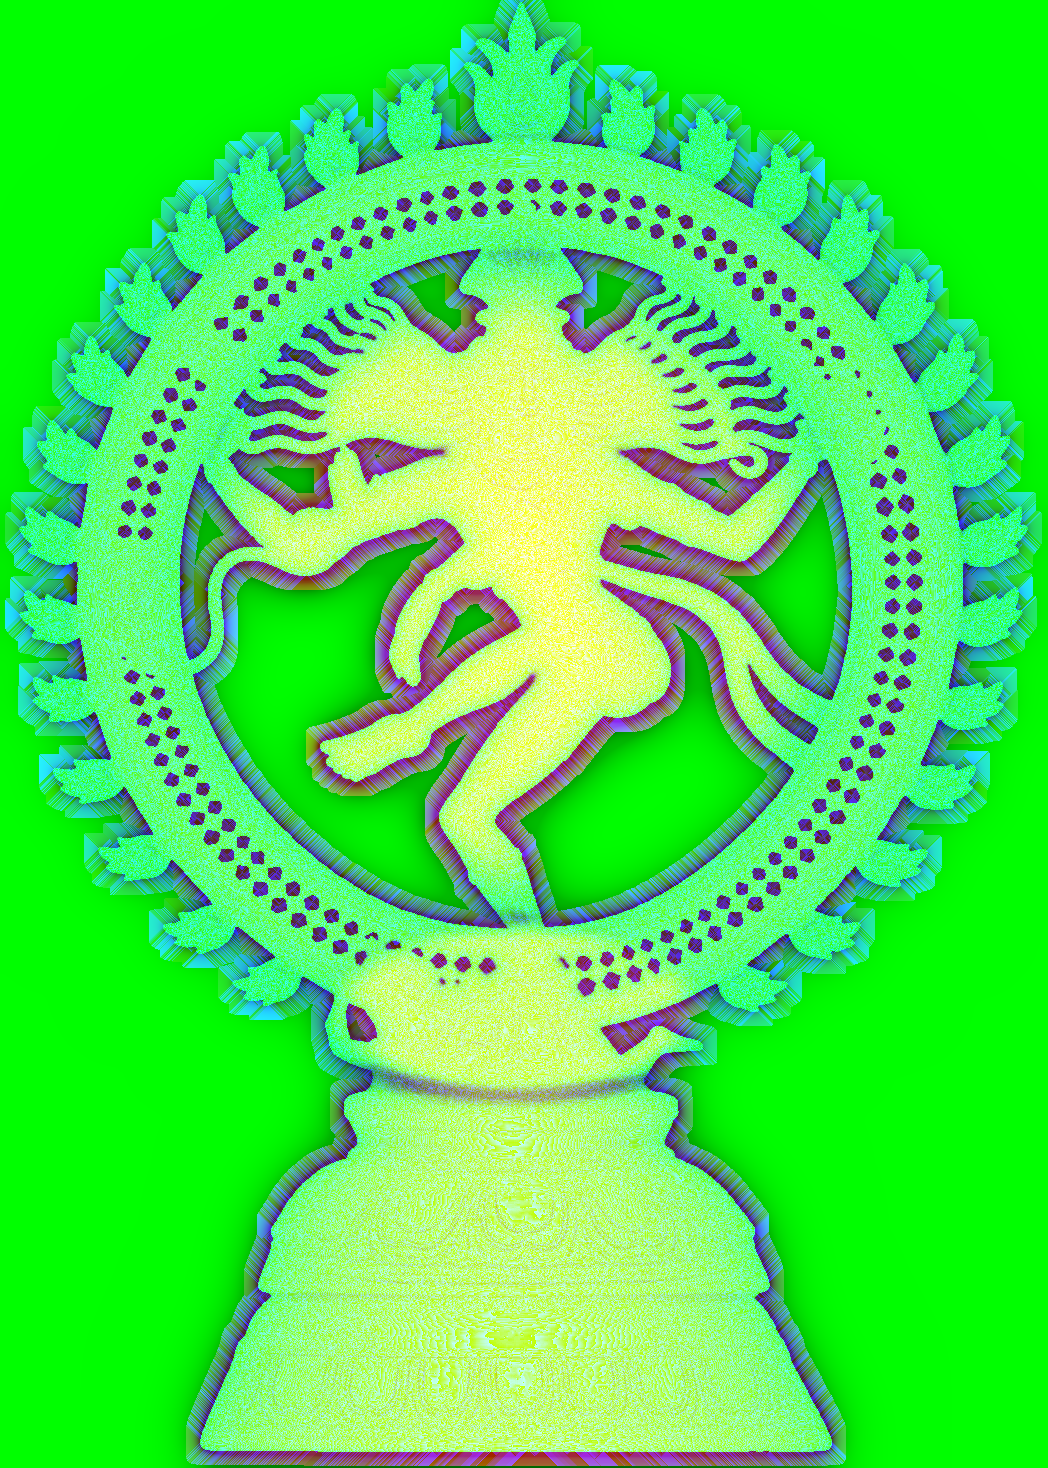
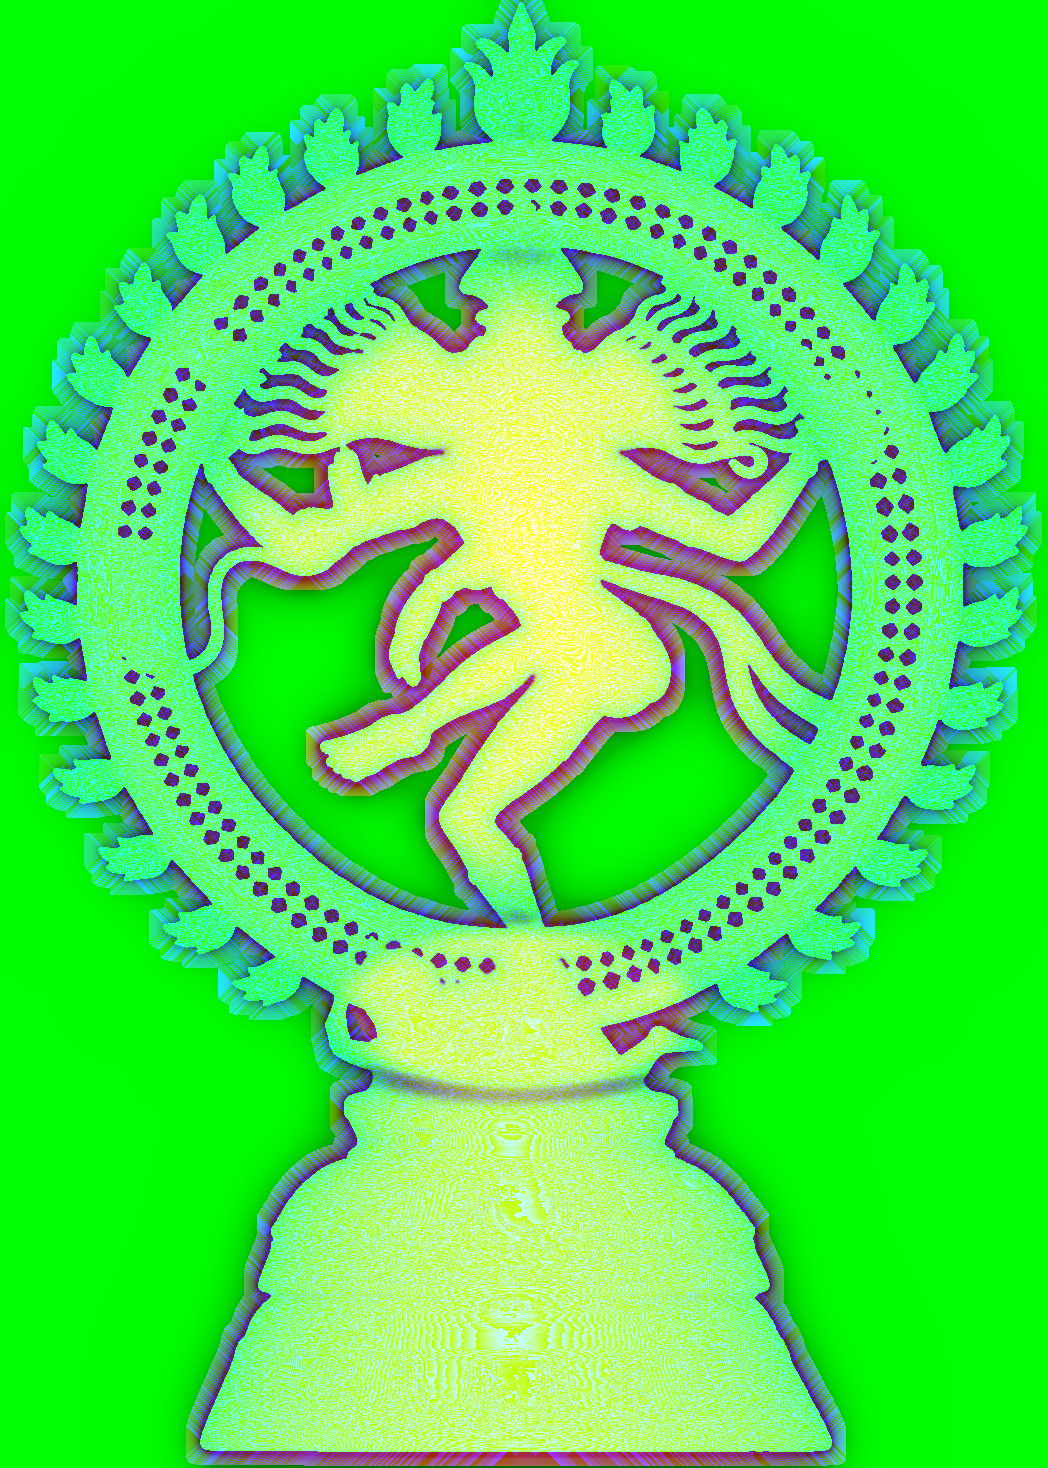
Make the statue a subtle, realistic relief
- Depth scale cut to ~a third, smoother depth map and softer normals so
  thin parts (hair, hands) no longer stretch into streaks.
- Narrower tilt, drag, scroll and hover ranges; never turns far enough
  to expose the relief's sides.
- Lighting only gently modulates the photo's own shading (weaker
  normals, AO, reflection and specular) to avoid the waxy look.

Claude-Session: https://claude.ai/code/session_011JZeWaZ6ZxknAmctntc1JM

diff --git a/components/Statue3D.tsx b/components/Statue3D.tsx
@@ -81,7 +81,8 @@ void main() {
 
   vec4 dz = texture(uDepth, vUv);
   float ao = mix(0.35, 1.0, dz.g);
-  vec3 n = normalize(uRot * (texture(uNormal, vUv).rgb * 2.0 - 1.0));
+  // the photo already carries the true shading; normals only add a gentle response to the light
+  vec3 n = normalize(uRot * normalize(mix(vec3(0.0, 0.0, 1.0), texture(uNormal, vUv).rgb * 2.0 - 1.0, 0.5)));
   vec3 V = normalize(-vWorld);
   vec3 L = normalize(uLight);
   vec3 H = normalize(L + V);
@@ -93,13 +94,12 @@ void main() {
 
   vec3 gold = c.rgb;
   vec3 R = reflect(-V, n);
-  vec3 col = gold * mix(0.78, 1.22, ndl) * ao;
-  col += gold * env(R) * 0.38 * (0.3 + fres);
-  col += vec3(1.0, 0.9, 0.7) * pow(ndh, 120.0) * 0.9 * smoothstep(0.25, 0.8, lum);
-  col += gold * pow(ndh, 14.0) * 0.12;
-  col += vec3(0.9, 0.5, 0.28) * fres * 0.12 * ao;
-  col = mix(vec3(dot(col, vec3(0.299, 0.587, 0.114))), col, 0.92);
-  col = pow(col, vec3(1.08));
+  vec3 col = gold * mix(0.9, 1.1, ndl) * mix(0.8, 1.0, ao);
+  col += gold * env(R) * 0.16 * (0.3 + fres);
+  col += vec3(1.0, 0.9, 0.7) * pow(ndh, 160.0) * 0.4 * smoothstep(0.35, 0.85, lum);
+  col += gold * pow(ndh, 14.0) * 0.05;
+  col += vec3(0.9, 0.5, 0.28) * fres * 0.04 * ao;
+  col = pow(col, vec3(1.03));
 
   // freshly formed metal: a narrow warm band that cools as the front moves on
   float band = 1.0 - smoothstep(0.0, 0.06, e);
@@ -308,7 +308,7 @@ export default function Statue3D({
     const GW = 210, GH = Math.round(GW * 1468 / 1048);
     let front: Float32Array | null = null;
     let cells: { u: Float32Array; v: Float32Array; d: Float32Array; t: Float32Array; n: number } | null = null;
-    let imgAspect = 1048 / 1468, depthScale = 0.2;
+    let imgAspect = 1048 / 1468, depthScale = 0.075;
 
     const spawn = (ux: number, uy: number, dz: number, mode: "form" | "fall", chip: boolean, puff: boolean) => {
       if (!MAX) return;
@@ -421,11 +421,11 @@ export default function Statue3D({
 
     const retarget = () => {
       const scroll = S.scroll.t;
-      S.ry.t = pointer.nx * 0.24 * amp + soft(turn.y, 0.42) + scroll * 0.45;
-      S.rx.t = pointer.ny * 0.12 * amp + soft(turn.x, 0.14) - scroll * 0.1;
+      S.ry.t = pointer.nx * 0.13 * amp + soft(turn.y, 0.24) + scroll * 0.1;
+      S.rx.t = pointer.ny * 0.06 * amp + soft(turn.x, 0.07) - scroll * 0.04;
       S.lx.t = Math.max(-1.3, Math.min(1.3, pointer.nx * 1.5));
       S.ly.t = Math.max(-1, Math.min(1.3, -pointer.ny * 1.5 + 0.3));
-      S.z.t = (hovering ? 0.12 : 0) - scroll * 0.25;
+      S.z.t = (hovering ? 0.05 : 0) - scroll * 0.15;
     };
 
     const resize = () => {
@@ -448,8 +448,8 @@ export default function Statue3D({
       };
       if (drag) {
         const now = performance.now();
-        turn.y = drag.oy + (e.clientX - drag.x) * 0.005;
-        turn.x = drag.ox + (e.clientY - drag.y) * 0.003;
+        turn.y = drag.oy + (e.clientX - drag.x) * 0.003;
+        turn.x = drag.ox + (e.clientY - drag.y) * 0.0015;
         drag.vel = (e.clientX - drag.lastX) / Math.max(now - drag.lastT, 1);
         drag.lastX = e.clientX; drag.lastT = now;
       }
@@ -461,7 +461,7 @@ export default function Statue3D({
     };
     const onUp = () => {
       if (!drag) return;
-      turn.vel = drag.vel * 0.06;
+      turn.vel = drag.vel * 0.03;
       drag = null; box.classList.remove("is-dragging"); kick();
     };
     const onEnter = () => { hovering = true; retarget(); kick(); };
@@ -502,7 +502,7 @@ export default function Statue3D({
       if (MAX) simulate(dt, t);
 
       const settle = reduce ? 1 : easeInOut(clamp01(t / 3.6));
-      depthScale = 0.2 * (0.35 + 0.65 * settle);
+      depthScale = 0.075 * (0.5 + 0.5 * settle);
       const lx = S.lx.x * settle + -1.4 * (1 - settle), ly = S.ly.x * settle + 1.2 * (1 - settle);
 
       const R = rot(S.rx.x, S.ry.x);

diff --git a/scripts/build_depth.py b/scripts/build_depth.py
@@ -56,21 +56,21 @@ upper = upper * (1 - w_dwarf) + np.maximum(upper, d_dwarf) * w_dwarf
 depth = upper * (1 - w_ped) + d_ped * w_ped
 
 # soften seams between regions, keep silhouette edges bevelled
-depth = cv2.GaussianBlur(depth * m, (0, 0), 2.2)
-norm = cv2.GaussianBlur(m.astype(np.float32), (0, 0), 2.2) + 1e-4
+depth = cv2.GaussianBlur(depth * m, (0, 0), 4.0)
+norm = cv2.GaussianBlur(m.astype(np.float32), (0, 0), 4.0) + 1e-4
 depth = np.where(m > 0, depth / norm, 0) * (0.6 + 0.4 * round_of(4))
 
 # fine engraving relief from luminance high-pass
 hp = lum - cv2.GaussianBlur(lum, (0, 0), 5)
-depth = np.clip(depth + 0.035 * hp, 0, 1) * m
+depth = np.clip(depth + 0.015 * hp, 0, 1) * m
 depth /= depth.max()
 
 # --- normals (for lighting) ---------------------------------------------
-dz = cv2.GaussianBlur(depth, (0, 0), 0.8) * 60.0
+dz = cv2.GaussianBlur(depth, (0, 0), 1.5) * 40.0
 nx = -cv2.Sobel(dz, cv2.CV_32F, 1, 0, ksize=3) / 8
 ny = -cv2.Sobel(dz, cv2.CV_32F, 0, 1, ksize=3) / 8
 # add micro-normals from the photo itself for metal detail
-lb = cv2.GaussianBlur(lum, (0, 0), 1.0) * 2.5
+lb = cv2.GaussianBlur(lum, (0, 0), 1.2) * 1.0
 nx += -cv2.Sobel(lb, cv2.CV_32F, 1, 0, ksize=3) / 8
 ny += -cv2.Sobel(lb, cv2.CV_32F, 0, 1, ksize=3) / 8
 nz = np.ones_like(nx)
